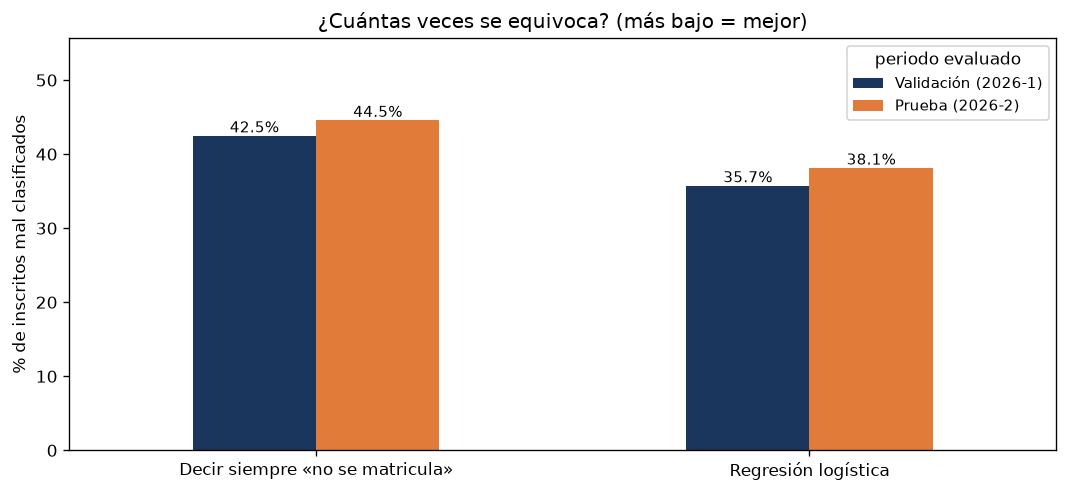
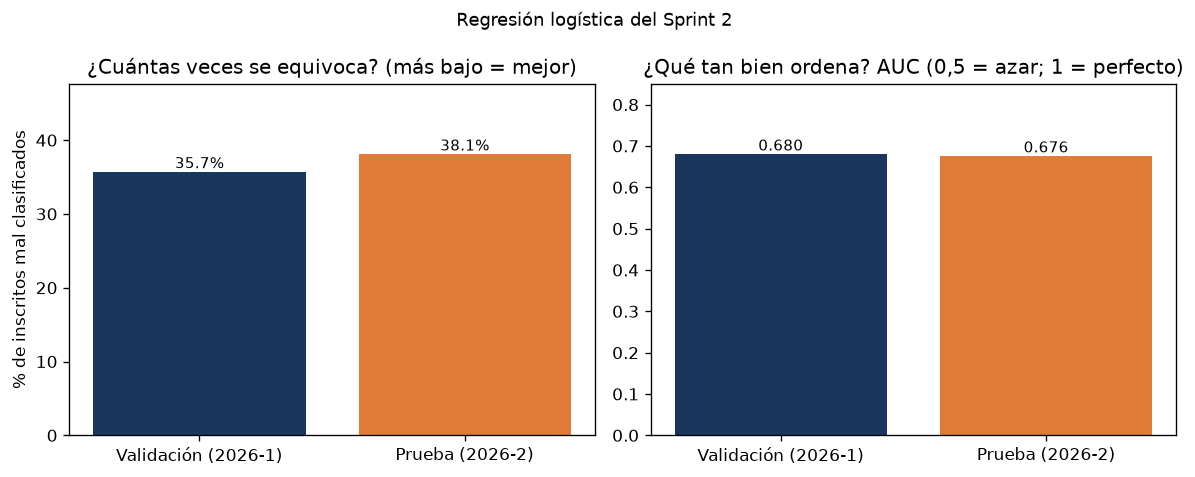
Sprint 2: la regresión logística es el único modelo de comparación

diff --git a/sprints/sprint_2_caracteristicas/ejecutar_sprint2.py b/sprints/sprint_2_caracteristicas/ejecutar_sprint2.py
@@ -7,8 +7,8 @@ Pasos:
   3. Aprende con el ENTRENAMIENTO (2024-1 a 2025-2) las referencias: estandarización y segmentos de k-means
      (src/caracteristicas.py).
   4. Construye la misma tabla con 14 columnas nuevas para TODOS los inscritos.
-  5. Entrena la REGRESIÓN LOGÍSTICA (sin ajuste de hiperparámetros, C = 1) con el entrenamiento y la evalúa en
-     validación (2026-1) y prueba (2026-2) frente a decir siempre "no se matricula".
+  5. Entrena la REGRESIÓN LOGÍSTICA, el modelo base del proyecto (sin ajuste de hiperparámetros, C = 1), con el
+     entrenamiento y la evalúa en validación (2026-1) y prueba (2026-2).
   6. Guarda: resultados/dataset_caracteristicas.csv y .xlsx, referencias_caracteristicas.joblib, métricas y figuras.
 
 Uso:  python sprints/sprint_2_caracteristicas/ejecutar_sprint2.py [--local]
@@ -74,15 +74,12 @@ def main() -> None:
     # Regresión logística con los hiperparámetros fijados ANTES de ver resultados (modelado.sprint2_logistica)
     logistica = mo.construir_pipeline("logistica", cfg["modelado"]["sprint2_logistica"], V,
                                       cfg["modelado"]["semilla"]).fit(mo.preparar_X(ent, ref, V), ent["matriculado"].astype(int))
-    mayoria = mo.ClaseMayoritaria().fit(ent, ent["matriculado"])
     resultados = {}
     for conjunto in ["VALIDACION", "PRUEBA"]:
         X = d[d["particion"] == conjunto]
-        resultados[("logistica_sprint2", conjunto)] = mo.metricas(
-            X["matriculado"], logistica.predict_proba(mo.preparar_X(X, ref, V))[:, 1])
-        resultados[("clase_mayoritaria", conjunto)] = mo.metricas(X["matriculado"], mayoria.predict_proba(X)[:, 1])
+        resultados[conjunto] = mo.metricas(X["matriculado"], logistica.predict_proba(mo.preparar_X(X, ref, V))[:, 1])
     metr = pd.DataFrame(resultados).T
-    metr.index.names = ["modelo", "conjunto"]
+    metr.index.name = "conjunto"
     print(metr[["n", "error_pct", "auc_roc", "brier"]].astype(float).round(3))
 
     d.to_csv(RES / "dataset_caracteristicas.csv", index=False, encoding="utf-8-sig")
@@ -109,7 +106,7 @@ def main() -> None:
         metr.astype(float).round(4).to_excel(w, sheet_name="logistica_metricas")
     joblib.dump({"referencias": ref, "logistica_sprint2": logistica}, RES / "referencias_caracteristicas.joblib")
     (RES / "metricas_logistica_sprint2.json").write_text(json.dumps(
-        {f"{m}|{c}": v for (m, c), v in resultados.items()} | {"origen_datos": origen}, ensure_ascii=False, indent=2),
+        {f"logistica_sprint2|{c}": v for c, v in resultados.items()} | {"origen_datos": origen}, ensure_ascii=False, indent=2),
         encoding="utf-8")
     figuras(d, ref, metr.astype(float))
     print(f"Listo: {RES.relative_to(RAIZ)}")

diff --git a/src/graficas_sprint2.py b/src/graficas_sprint2.py
@@ -185,17 +185,16 @@ def indice_vocacional(ent: pd.DataFrame) -> plt.Figure:
 
 
 def error_logistica(metr: pd.DataFrame) -> plt.Figure:
-    """metr: índice (modelo, conjunto) con la columna error_pct."""
-    nombres = {"logistica_sprint2": "Regresión logística", "clase_mayoritaria": "Decir siempre «no se matricula»"}
+    """metr: índice = conjunto (VALIDACION, PRUEBA) con las columnas error_pct y auc_roc de la regresión logística."""
     conjuntos = {"VALIDACION": "Validación (2026-1)", "PRUEBA": "Prueba (2026-2)"}
-    m = metr["error_pct"].unstack().rename(index=nombres, columns=conjuntos)[list(conjuntos.values())]
-    fig, ax = plt.subplots(figsize=(9, 4.2))
-    m.plot(kind="bar", ax=ax, color=[AZUL, NARANJA], rot=0)
-    ax.set(ylabel="% de inscritos mal clasificados", xlabel="",
-           title="¿Cuántas veces se equivoca? (más bajo = mejor)")
-    ax.set_ylim(0, m.to_numpy().max() * 1.25)
-    for cont in ax.containers:
-        ax.bar_label(cont, fmt="%.1f%%", fontsize=9)
-    ax.legend(title="periodo evaluado", fontsize=9)
+    m = metr.rename(index=conjuntos).loc[list(conjuntos.values())]
+    fig, ejes = plt.subplots(1, 2, figsize=(10, 4))
+    for ax, col, titulo, fmt in [(ejes[0], "error_pct", "¿Cuántas veces se equivoca? (más bajo = mejor)", "{:.1f}%"),
+                                 (ejes[1], "auc_roc", "¿Qué tan bien ordena? AUC (0,5 = azar; 1 = perfecto)", "{:.3f}")]:
+        barras = ax.bar(m.index, m[col], color=[AZUL, NARANJA])
+        ax.bar_label(barras, labels=[fmt.format(v) for v in m[col]], fontsize=9)
+        ax.set(title=titulo, ylim=(0, m[col].max() * 1.25))
+    ejes[0].set_ylabel("% de inscritos mal clasificados")
+    fig.suptitle("Regresión logística del Sprint 2", fontsize=11)
     fig.tight_layout()
     return fig

diff --git a/src/modelado.py b/src/modelado.py
@@ -1,9 +1,8 @@
 """Modelos y métricas de la matrícula (Sprint 2: regresión logística · Sprint 3: comparación con Random Forest y XGBoost).
 
 El primer modelo del proyecto (Sprint 2) es una REGRESIÓN LOGÍSTICA sin ajuste de hiperparámetros
-(config/reglas_negocio.yaml -> modelado.sprint2_logistica). Se compara con la referencia mínima de decir siempre
-"no se matricula" (ClaseMayoritaria). En el Sprint 3 se ajustan los hiperparámetros con la validación y se compara con
-Random Forest y XGBoost.
+(config/reglas_negocio.yaml -> modelado.sprint2_logistica): es el modelo base del proyecto. En el Sprint 3 se ajustan
+sus hiperparámetros con la validación y se compara con Random Forest y XGBoost.
 """
 from __future__ import annotations
 
@@ -11,17 +10,6 @@ import numpy as np
 import pandas as pd
 from sklearn.metrics import (average_precision_score, brier_score_loss, f1_score, log_loss, precision_score,
                              recall_score, roc_auc_score)
-
-
-class ClaseMayoritaria:
-    """Referencia mínima: siempre predice la tasa global (todos iguales). Cualquier modelo útil debe superarla."""
-
-    def fit(self, X, y):
-        self.tasa_ = float(np.mean(np.asarray(y, dtype=float)))
-        return self
-
-    def predict_proba(self, X):
-        return np.column_stack([np.full(len(X), 1 - self.tasa_), np.full(len(X), self.tasa_)])
 
 
 def metricas(y, p, umbral: float = 0.5) -> dict:

diff --git a/src/datos.py b/src/datos.py
@@ -48,6 +48,8 @@ def cargar(tabla: str, fuente: str = "auto") -> tuple[pd.DataFrame, str]:
         try:
             from conexion_supabase import crear_cliente, leer_dataset_matricula
             df = leer_dataset_matricula(crear_cliente(), tabla=tabla)
+            if df.empty:                       # la tabla existe pero no tiene filas (o la API no deja leerlas)
+                raise RuntimeError(f"La tabla {tabla} está vacía en Supabase: cárguela con python src/s05_cargar_supabase.py.")
             return preparar_tipos(df), "Supabase (API de solo lectura)"
         except Exception as error:
             if fuente == "supabase":

diff --git a/README.md b/README.md
@@ -7,7 +7,7 @@
 > "¿Aplica a Beca Mi Vocación? Sí/No" o `segmento_rendimiento_icfes`) y un primer cálculo que sirva de punto de
 > comparación.
 
-El proyecto predice **si el inscrito se matricula**. El primer modelo es una **regresión logística**.
+El proyecto predice **si el inscrito se matricula**. El modelo base es una **regresión logística**.
 
 ## Qué se entrega
 | Entregable | Dónde |
@@ -15,7 +15,7 @@ El proyecto predice **si el inscrito se matricula**. El primer modelo es una **r
 | La tabla del Sprint 1 con **14 columnas nuevas** (2.991 inscritos) | Se construye al ejecutar el cuaderno o el script; se publica en Supabase como `dataset_caracteristicas` (solo lectura) |
 | La **entrevista de admisión convertida en números**: rúbrica de 1 a 5 por sección e índice vocacional de 0 a 100 | Sección 2 del cuaderno · [`data/processed/dataset_entrevista.csv`](data/processed/dataset_entrevista.csv) |
 | Segmentación de mercado con **k-means** (5 segmentos con nombres en español sencillo) | Columna `segmento_mercado` y gráficas del cuaderno |
-| **Regresión logística** y su error frente a decir siempre "no se matricula" | Sección 7 del cuaderno · [`resultados/metricas_logistica_sprint2.json`](sprints/sprint_2_caracteristicas/resultados/metricas_logistica_sprint2.json) |
+| **Regresión logística** (el modelo base) y su error | Sección 7 del cuaderno · [`resultados/metricas_logistica_sprint2.json`](sprints/sprint_2_caracteristicas/resultados/metricas_logistica_sprint2.json) |
 | Cuaderno para Google Colab | [`sprint2_caracteristicas_colab.ipynb`](sprint2_caracteristicas_colab.ipynb) |
 | Cuaderno local (ejecutado, con sus salidas) | [`sprint2_caracteristicas_local.ipynb`](sprint2_caracteristicas_local.ipynb) |
 | Script que genera la tabla, el Excel, las gráficas y las métricas | [`sprints/sprint_2_caracteristicas/ejecutar_sprint2.py`](sprints/sprint_2_caracteristicas/ejecutar_sprint2.py) |
@@ -78,14 +78,15 @@ la validación y la prueba no "vean" el futuro (sin fuga de datos).
 Los nombres son relativos al promedio de todos los inscritos (ICFES 274, 15,6 km, 18,2 años). La silueta es baja:
 los segmentos son perfiles útiles para Mercadeo, no grupos naturales.
 
-**Regresión logística** (C = 1, sin ajuste de hiperparámetros, entrenada con 2024-1 a 2025-2):
+**Regresión logística, el modelo base** (C = 1, sin ajuste de hiperparámetros, entrenada con 2024-1 a 2025-2):
 
-| Periodo evaluado | Regresión logística | Decir siempre «no se matricula» |
+| Periodo evaluado | Error | AUC |
 |---|---|---|
-| Validación (2026-1, 504 inscritos) | 35,7% de error · AUC 0,680 | 42,5% de error |
-| Prueba (2026-2, 761 inscritos) | 38,1% de error · AUC 0,676 | 44,5% de error |
+| Validación (2026-1, 504 inscritos) | 35,7% | 0,680 |
+| Prueba (2026-2, 761 inscritos) | 38,1% | 0,676 |
 
-Este es el punto de comparación de los modelos del Sprint 3.
+El AUC mide qué tan bien ordena a los inscritos (0,5 es azar). Este es el punto de comparación de los modelos del
+Sprint 3.
 
 ## Cómo ejecutarlo
 ### En Google Colab

diff --git a/sprints/sprint_2_caracteristicas/bitacora_auditoria_ia.md b/sprints/sprint_2_caracteristicas/bitacora_auditoria_ia.md
@@ -16,6 +16,7 @@ Continúa la bitácora del Sprint 1 (`docs/bitacora_auditoria_ia.md`, hallazgos 
 | H-85 | Cambio de alcance pedido por el estudiante (12-nov-2026): el proyecto ya no predice la pérdida de beca y el Sprint 2 no tiene modelo base, suavizado de Laplace ni regresión del promedio | Revisión de todo lo que dependía de esas piezas (código, cuadernos, pruebas, app) | El modelo base, `probabilidad_acceso_beca` (Laplace, H-41) y `promedio_estimado_universidad` (R² = 0,14) dejan de existir; el primer modelo pasa a ser una regresión logística con C = 1 fijado antes de ver resultados | Se retiraron del código y de los cuadernos; quedan 14 columnas nuevas. H-41 y H-45 quedan como historia | `src/caracteristicas.py` · `src/modelado.py` · `config/reglas_negocio.yaml` → `modelado.sprint2_logistica` | ☐ | |
 | H-86 | Convertir la entrevista de admisión (preguntas abiertas) en variables numéricas | Lectura del formulario "Entrevista de admisión" de Unicervantes | No hay respuestas reales: solo existía un puntaje vocacional de 1 a 5 | Rúbrica de 1 a 5 por sección (interés por el programa, historia de vida, interés por la universidad, conciencia social, expresión) e índice vocacional = 25 × (promedio − 1). Se simula con un generador aparte (S-46), coherente con el puntaje: el resto de la base quedó idéntico (hashes iguales antes y después) | `src/s02_generar_datos_sinteticos.py` → `simular_entrevista` · `tests/test_entrevista.py` | ☐ | |
 | H-87 | Usar todas las secciones de la entrevista como variables, incluida la salud mental | Revisión normativa (Ley 1581 de 2012, art. 5: datos sensibles) | Predecir la matrícula con la salud mental podría discriminar y exige autorización expresa | La salud mental, "proceso psicológico" y "requiere Bienestar" quedan solo en `entrevista_admision` (RLS, sin permisos para la API). No están en `dataset_entrevista`, ni en el modelo ni en la app; una prueba lo comprueba | `sql/01_esquema.sql` · `sql/04_supabase_seguridad.sql` · `tests/test_entrevista.py` | ☐ | |
+| H-89 | Comparar la regresión logística con "decir siempre no se matricula" (clase mayoritaria) | Pedido del estudiante (12-nov-2026) | El proyecto debe tener un solo modelo base: la regresión logística del Sprint 2 | Se retiró `ClaseMayoritaria` del código, de las tablas de los Sprints 2, 3 y 5 y del informe. La calidad de la logística se lee con su error y su AUC (0,676 en la prueba; 0,5 sería azar) | `src/modelado.py` · `metricas_logistica_sprint2.json` | ☐ | |
 
 ## Registro de revisión
 | Fecha | Qué revisé | Qué encontré | Qué cambié |

diff --git a/sprints/sprint_2_caracteristicas/justificacion_conceptual.md b/sprints/sprint_2_caracteristicas/justificacion_conceptual.md
@@ -57,7 +57,7 @@ variables que el modelo puede usar y que una persona puede leer.
 - La silueta baja indica que los aspirantes no forman grupos muy separados. Los segmentos son una forma útil de
   resumir perfiles, no "tipos" naturales.
 
-## 5. La regresión logística, primer modelo del proyecto
+## 5. La regresión logística, modelo base del proyecto
 - Modela el logaritmo de las odds de matricularse como una suma ponderada:
   log(p/(1 − p)) = β₀ + β₁x₁ + … + βₖxₖ. Despejando, p = 1/(1 + e^−(β₀ + Σβx)), siempre entre 0 y 1.
 - Los β se eligen por **máxima verosimilitud**: los que hacen más probables los resultados observados.
@@ -67,11 +67,10 @@ variables que el modelo puede usar y que una persona puede leer.
   no se inventa un orden que no existe.
 - En el Sprint 2 se usa **sin ajustar hiperparámetros** (C = 1, fijado antes de ver resultados). El ajuste y la
   comparación con Random Forest y XGBoost se hacen en el Sprint 3.
-- **Error %:** inscritos mal clasificados al predecir "sí" cuando la probabilidad es ≥ 50%.
-  - Validación 2026-1: 35,7%. Prueba 2026-2: 38,1%.
-  - Decir siempre "no se matricula", la clase más frecuente, se equivoca en 42,5% y 44,5%.
+- **Error %:** inscritos mal clasificados al predecir "sí" cuando la probabilidad es ≥ 50%. Validación 2026-1: 35,7%;
+  prueba 2026-2: 38,1%.
 - **AUC:** probabilidad de que un matriculado al azar reciba mayor probabilidad que un no matriculado al azar (0,676 en
-  la prueba; 0,5 sería azar).
+  la prueba; 0,5 sería azar). Es la mejor señal de que el modelo aprendió algo: ordena a los inscritos.
 - **Brier:** promedio de (probabilidad − resultado)².
 
 ## Preguntas de control
@@ -81,4 +80,4 @@ variables que el modelo puede usar y que una persona puede leer.
 4. Describa el algoritmo de k-means y explique por qué hay que estandarizar.
 5. ¿Qué mide la silueta y por qué se eligió k = 5?
 6. Escriba la fórmula de la regresión logística. ¿Qué significa un β positivo?
-7. ¿Por qué se compara con decir siempre "no se matricula"?
+7. ¿Qué significa un AUC de 0,676?
